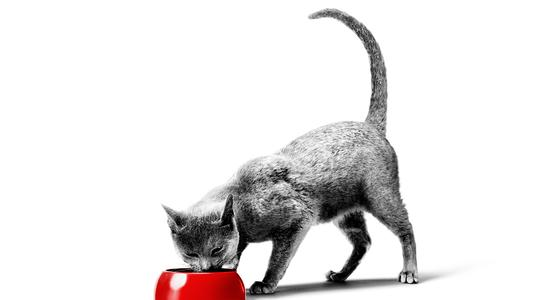
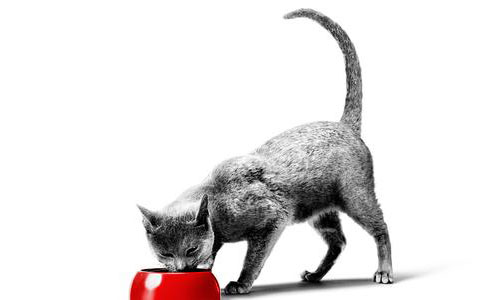
optimaze ui

Changed region(s): [[0.24, 0.03, 0.84, 1.0]]

diff --git a/src/views/Cart/modules/unLoginCart.js b/src/views/Cart/modules/unLoginCart.js
@@ -12,8 +12,8 @@ import { Link } from "react-router-dom"
 import { formatMoney } from "@/utils/utils"
 import { SUBSCRIPTION_DISCOUNT_RATE } from '@/utils/constant'
 import { cloneDeep, find, findIndex } from 'lodash'
-import CART_CAT from "@/assets/images/CART_CAT.jpg";
-import CART_DOG from "@/assets/images/CART_DOG.jpg";
+import catsImg from "@/assets/images/banner-list/cats.jpg"
+import dogsImg from "@/assets/images/banner-list/dogs.jpg"
 import PetModal from '@/components/PetModal'
 
 @inject("checkoutStore")
@@ -414,7 +414,7 @@ class UnLoginCart extends React.Component {
                       : null
                   }
                 </div>
-                <div className="stock__wrapper 1111">
+                <div className="stock__wrapper">
                   <div className="stock">
                     <label className={['availability', pitem.addedFlag, pitem.addedFlag && pitem.quantity <= find(pitem.sizeList, s => s.selected).stock ? 'instock' : 'outofstock'].join(' ')} >
                       <span className="title-select"><FormattedMessage id="details.availability" /> :</span>
@@ -459,17 +459,16 @@ class UnLoginCart extends React.Component {
                   max="10" />
                 <span
                   className=" rc-icon rc-plus--xs rc-iconography rc-brand1 rc-quantity__btn js-qty-plus"
-                  data-quantity-error-msg="Вы не можете заказать больше 10"
                   onClick={() => this.addQuantity(pitem)}></span>
               </div>
             </div>
             <div className="line-item-total-price d-flex justify-content-center">
               <p className="line-item-price-info line-item-total-price-amount rc-margin-bottom--none rc-margin-right--xs flex-grow-1 text-right">=</p>
-              <div className="item-total-f6a6279ea1978964b8bf0e3524 price">
+              <div className="price">
                 <div className="strike-through non-adjusted-price">
                   null
                 </div>
-                <b className="pricing line-item-total-price-amount item-total-f6a6279ea1978964b8bf0e3524 light">
+                <b className="pricing line-item-total-price-amount light">
                   {formatMoney(pitem.quantity * pitem.sizeList.filter((el) => el.selected)[0].salePrice)}
                 </b>
               </div>
@@ -746,15 +745,15 @@ class UnLoginCart extends React.Component {
               </>
               : <>
                 <div className="rc-text-center">
-                  <div className="rc-beta rc-margin-bottom--sm">
+                  <div className="rc-beta mb-1">
                     <FormattedMessage id="cart.yourShoppingCart" />
                   </div>
-                  <div className="rc-gamma title-empty">
+                  <div className="rc-gamma title-empty mb-0">
                     <FormattedMessage id="header.basketEmpty" />
                   </div>
                 </div>
                 <div className="content-asset">
-                  <div className="rc-bg-colour--brand3 rc-padding--sm">
+                  <div className="rc-bg-colour--brand3 rc-padding--sm pt-0 pb-0">
                     <div className="rc-max-width--lg rc-padding-x--lg--mobile">
                       <div>
                         <div className="rc-alpha inherit-fontsize">
@@ -762,13 +761,12 @@ class UnLoginCart extends React.Component {
                             <FormattedMessage id="cart.fullPrice" />
                           </p>
                         </div>
-                        <div className="d-flex justify-content-between flex-wrap ui-pet-item text-center">
+                        <div className="d-flex justify-content-between flex-wrap ui-pet-item text-center" style={{ margin: '0 10%' }}>
                           <div className="ui-item border radius-3">
                             <Link to="/list/dogs">
                               <img
                                 className="w-100"
-                                style={{ transform: 'scale(.8)' }}
-                                src={CART_DOG}
+                                src={dogsImg}
                                 alt="Dog" />
                               <br />
                               <h4 className="card__title red">
@@ -780,8 +778,7 @@ class UnLoginCart extends React.Component {
                             <Link to="/list/cats">
                               <img
                                 className="w-100"
-                                style={{ padding: '3rem 0 4rem' }}
-                                src={CART_CAT}
+                                src={catsImg}
                                 alt="Cat" />
                               <br /><h4 className="card__title red">
                                 <FormattedMessage id="cart.catDiet" />

diff --git a/src/views/Cart/modules/loginCart.js b/src/views/Cart/modules/loginCart.js
@@ -20,8 +20,8 @@ import {
   deleteItemFromBackendCart,
   switchSize
 } from '@/api/cart'
-import CART_CAT from "@/assets/images/CART_CAT.jpg";
-import CART_DOG from "@/assets/images/CART_DOG.jpg";
+import catsImg from "@/assets/images/banner-list/cats.jpg"
+import dogsImg from "@/assets/images/banner-list/dogs.jpg"
 import Loading from "@/components/Loading"
 
 @inject("checkoutStore")
@@ -698,29 +698,28 @@ class LoginCart extends React.Component {
             {
               productList.length == 0 && !checkoutLoading && <>
                 <div className="rc-text-center">
-                  <div className="rc-beta rc-margin-bottom--sm">
+                  <div className="rc-beta mb-1">
                     <FormattedMessage id="cart.yourShoppingCart" />
                   </div>
-                  <div className="rc-gamma title-empty">
+                  <div className="rc-gamma title-empty mb-0">
                     <FormattedMessage id="header.basketEmpty" />
                   </div>
                 </div>
                 <div className="content-asset">
-                  <div className="rc-bg-colour--brand3 rc-padding--sm">
+                  <div className="rc-bg-colour--brand3 rc-padding--sm pt-0 pb-0">
                     <div className="rc-max-width--lg rc-padding-x--lg--mobile">
                       <div>
                         <div className="rc-alpha inherit-fontsize">
-                          <p style={{ textAlign: 'center' }}>
+                          <p className="text-center">
                             <FormattedMessage id="cart.fullPrice" />
                           </p>
                         </div>
-                        <div className="d-flex justify-content-between flex-wrap ui-pet-item text-center">
+                        <div className="d-flex justify-content-between flex-wrap ui-pet-item text-center" style={{ margin: '0 10%' }}>
                           <div className="ui-item border radius-3">
                             <Link to="/list/dogs">
                               <img
                                 className="w-100"
-                                style={{ transform: 'scale(.8)' }}
-                                src={CART_DOG}
+                                src={dogsImg}
                                 alt="Dog" />
                               <br /><h4 className="card__title red">
                                 <FormattedMessage id="cart.dogDiet" />
@@ -731,8 +730,7 @@ class LoginCart extends React.Component {
                             <Link to="/list/cats">
                               <img
                                 className="w-100"
-                                style={{ padding: '3rem 0 4rem' }}
-                                src={CART_CAT}
+                                src={catsImg}
                                 alt="Cat" />
                               <br />
                               <h4 className="card__title red">

diff --git a/src/views/List/index.js b/src/views/List/index.js
@@ -1,6 +1,6 @@
 import React from 'react'
 import Skeleton from 'react-skeleton-loader'
-import { FormattedMessage } from 'react-intl'
+import { FormattedMessage, injectIntl } from 'react-intl'
 import { inject, observer } from 'mobx-react'
 import GoogleTagManager from '@/components/GoogleTagManager'
 import Header from '@/components/Header'
@@ -19,6 +19,7 @@ import './index.css'
 
 @inject("loginStore")
 @observer
+@injectIntl
 class List extends React.Component {
   constructor(props) {
     super(props)
@@ -72,7 +73,8 @@ class List extends React.Component {
       filterList: [],
       initingFilter: true,
       initingList: true,
-      filterModalVisible: false
+      filterModalVisible: false,
+      currentCatogery: ''
     }
     this.handleFilterChange = this.handleFilterChange.bind(this)
     this.handleRemove = this.handleRemove.bind(this)
@@ -98,7 +100,7 @@ class List extends React.Component {
     const t = find(STORE_CATE_ENUM, ele => ele.category == category)
     if (t) {
       let tmpArr = Array.from(storeIdList, s => t.cateName.includes(s.cateName) ? s.storeCateId : '').filter(s => !!s)
-      this.setState({ storeCateIds: tmpArr })
+      this.setState({ storeCateIds: tmpArr, currentCatogery: t.text[this.props.intl.locale] })
     }
 
     this.getProductList()
@@ -363,7 +365,7 @@ class List extends React.Component {
                   <div className={['rc-column', 'rc-triple-width', !productList.length ? 'd-flex justify-content-center align-items-center' : ''].join(' ')}>
                     {
                       !loading && <div className="position-absolute" style={{ top: '-20px' }}>
-                        {results} <FormattedMessage id="results" />
+                        <span style={{ fontWeight: 500 }}>{this.state.currentCatogery}{' '}</span>({results} <FormattedMessage id="results" />)
                       </div>
                     }
                     {!productList.length
@@ -432,7 +434,7 @@ class List extends React.Component {
                                                     {formatMoney(Math.min.apply(null, item.goodsInfos.map(g => g.marketPrice || 0)))}{' '}
                                                     {
                                                       item.goodsInfos.sort((a, b) => a.marketPrice - b.marketPrice)[0].linePrice && item.goodsInfos.sort((a, b) => a.marketPrice - b.marketPrice)[0].linePrice > 0
-                                                        ? <span className="text-line-through" style={{ fontSize: '.8em' }}>
+                                                        ? <span className="text-line-through rc-text-colour--text" style={{ fontSize: '.8em' }}>
                                                           {formatMoney(item.goodsInfos.sort((a, b) => a.marketPrice - b.marketPrice)[0].linePrice)}
                                                         </span>
                                                         : null

diff --git a/src/components/ConfirmTooltip/index.js b/src/components/ConfirmTooltip/index.js
@@ -46,7 +46,7 @@ class ConfirmTooltip extends React.Component {
               {
                 this.props.cancelBtnVisible ?
                   (
-                    <div className="rc-btn rc-btn--two rc-btn--sm pt-3" onClick={(e) => { this.cancel(e) }}>
+                    <div className="rc-btn rc-btn--two rc-btn--sm mt-3" onClick={(e) => { this.cancel(e) }}>
                       <FormattedMessage id="cancel" />
                     </div>
                   ) : null
@@ -54,7 +54,7 @@ class ConfirmTooltip extends React.Component {
               {
                 this.props.confirmBtnVisible ?
                   (
-                    <div className="rc-btn rc-btn--one rc-btn--sm mgl10 pt-3" onClick={(e) => { this.props.confirm(e) }}>
+                    <div className="rc-btn rc-btn--one rc-btn--sm mgl10 mt-3" onClick={(e) => { this.props.confirm(e) }}>
                       <FormattedMessage id="clinic.confirm" />
                     </div>
                   ) : null
